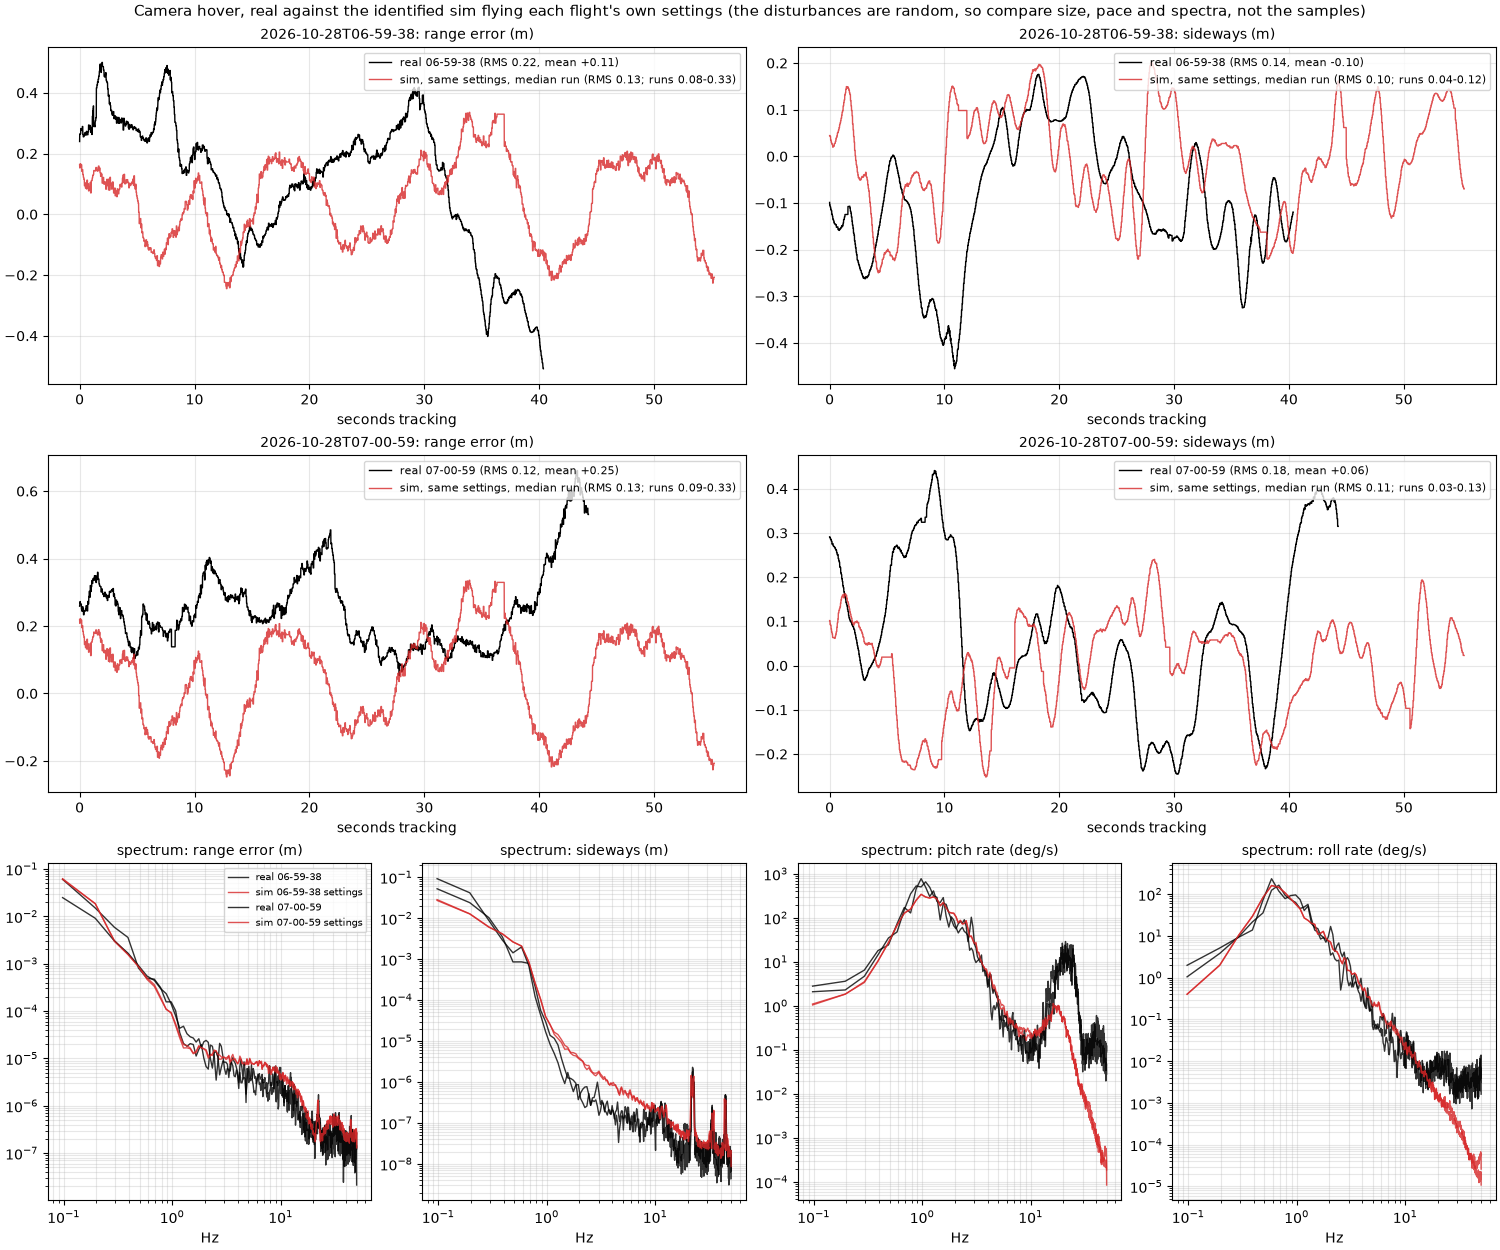
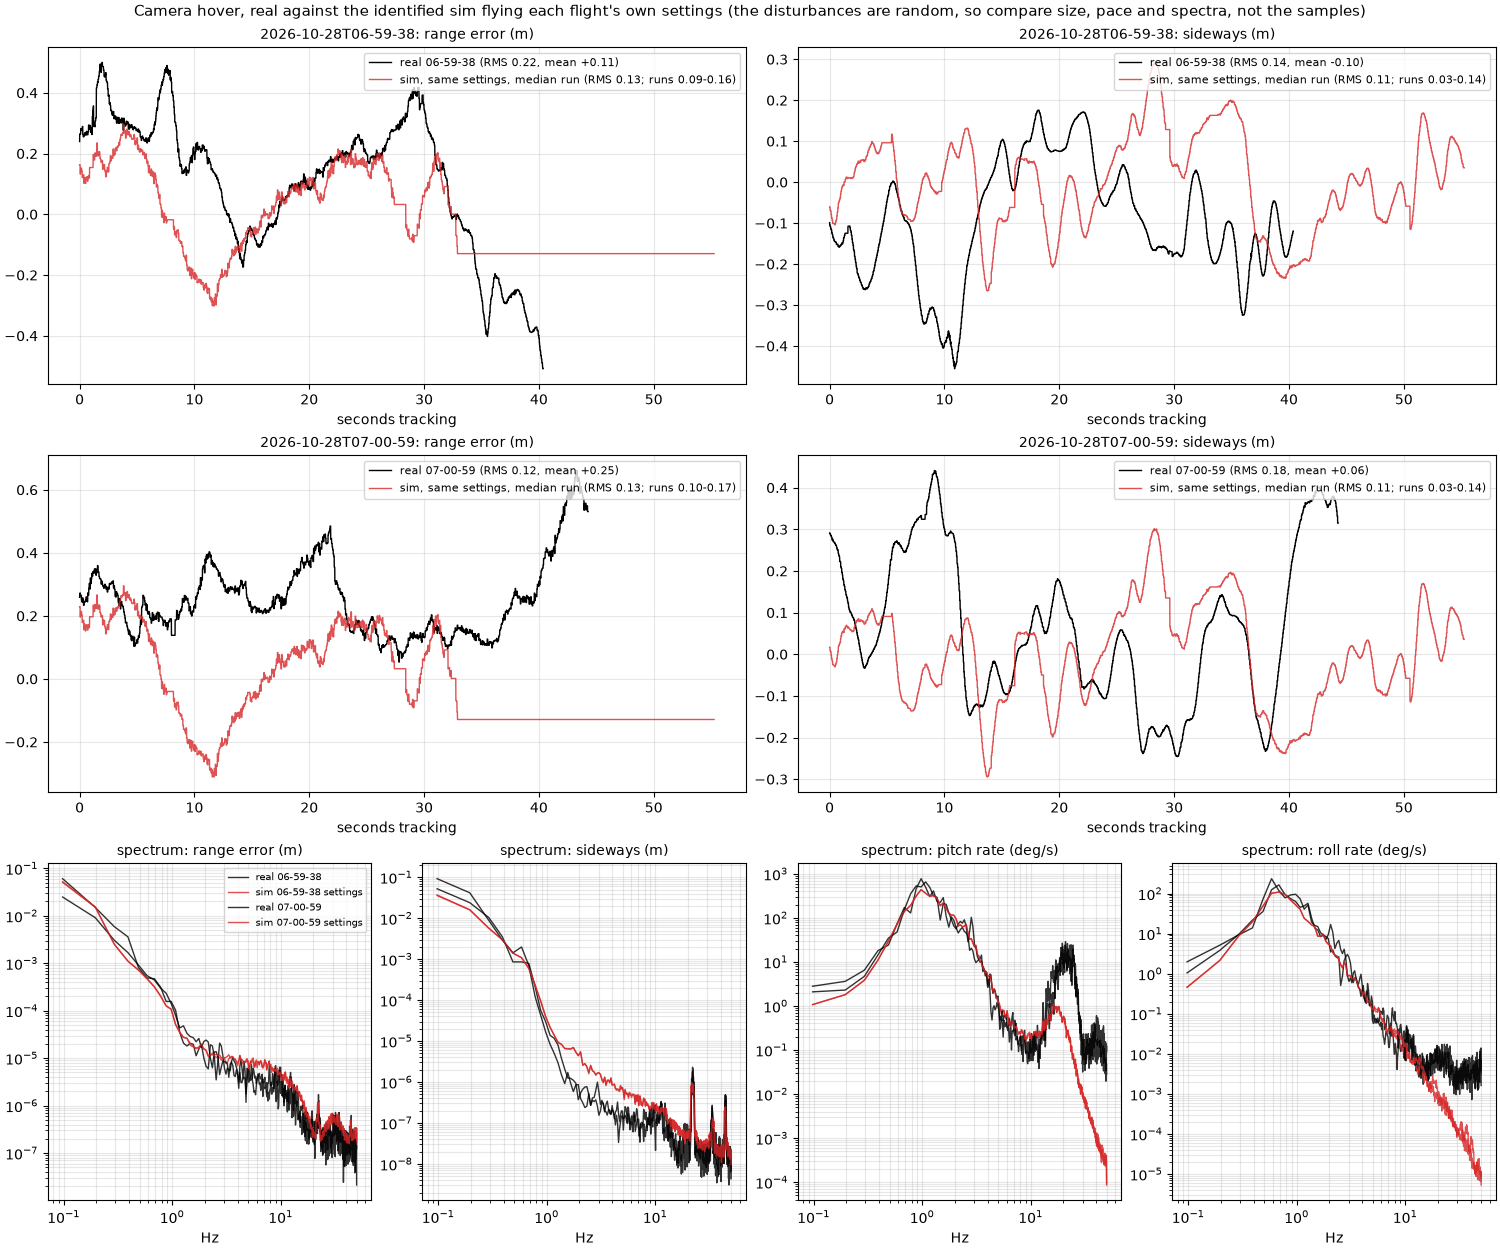
Fourth sim calibration, adding the sideways force drift (x1.48, 1.42 s): sideways wander 0.14 against the real 0.16 m with the real fade time; attitude spectra within 10% in every band but pitch 1.5-3 Hz; prediction unchanged; recovery, flip and the hover stages still hold on it

diff --git a/src/sw/sim/calibrate_sim.py b/src/sw/sim/calibrate_sim.py
@@ -1,7 +1,7 @@
 """
 Calibrate the hover sim to the real camera hovers' closed-loop behaviour: uv run --with scipy --with cma -m sw.sim.calibrate_sim [--generations 30] [--workers 90]
 
-identify_airframe fits the airframe to short-horizon prediction, which the attitude controller's feedback dominates: it pins the plant above about 2 Hz but barely constrains its low-frequency gain, while fit_disturbances only sizes the torque residual's drift. Flown in closed loop, the sim then wobbles at the wrong frequency (0.7 Hz in pitch against the real 0.9-1 Hz). This CMA-ES search sets what both leave loose so that the sim flying each camera hover's settings (sweep.run with hover=True) matches the hover's statistics: the pitch and roll attitude spectra in three bands (0.3-0.8, 0.8-1.5, 1.5-3 Hz), the range error and sideways RMS and how fast they fade. Searched: scales on the tilt's pitch torque (through wash_z, so its lagged share pitch_wake scales with it), on the lagged share and its lag, on the roll authority (differential_slope), on the attitude terms (roll_pendulum, pitch_pendulum), and on the calibrated disturbances (roll and pitch torque drift size and correlation time, force drift size). The prediction error on the logs (identify_airframe's closed-loop free runs at 250 ms, 500 ms and 1 s, all flights) is kept within reach by a penalty on its growth. Writes the scaled airframe and disturbances next to the sources (--out-airframe, --out-disturbances).
+identify_airframe fits the airframe to short-horizon prediction, which the attitude controller's feedback dominates: it pins the plant above about 2 Hz but barely constrains its low-frequency gain, while fit_disturbances only sizes the torque residual's drift. Flown in closed loop, the sim then wobbles at the wrong frequency (0.7 Hz in pitch against the real 0.9-1 Hz). This CMA-ES search sets what both leave loose so that the sim flying each camera hover's settings (sweep.run with hover=True) matches the hover's statistics: the pitch and roll attitude spectra in three bands (0.3-0.8, 0.8-1.5, 1.5-3 Hz), the range error and sideways RMS and how fast they fade. Searched: scales on the tilt's pitch torque (through wash_z, so its lagged share pitch_wake scales with it), on the lagged share and its lag, on the roll authority (differential_slope), on the attitude terms (roll_pendulum, pitch_pendulum), and on the calibrated disturbances (roll and pitch torque drift size and correlation time, forward force drift size, sideways force drift size and correlation time). The prediction error on the logs (identify_airframe's closed-loop free runs at 250 ms, 500 ms and 1 s, all flights) is kept within reach by a penalty on its growth. Writes the scaled airframe and disturbances next to the sources (--out-airframe, --out-disturbances).
 """
 
 import argparse
@@ -32,7 +32,7 @@ BANDS = ((0.3, 0.8), (0.8, 1.5), (1.5, 3.0))
 SEEDS = 4
 # Searched: name, low, high, start (log-scaled; the lag and correlation times start at the current plant's, see starting).
 SPACE = (("pitch_gain", 0.6, 1.8, 1.0), ("wake_gain", 0.3, 3.0, 1.0), ("wake_tau", 0.2, 2.0, 1.0), ("roll_gain", 0.6, 2.5, 1.0), ("roll_pendulum_gain", 0.2, 3.0, 1.0), ("pitch_pendulum_gain", 0.2, 3.0, 1.0),
-         ("pitch_drift", 0.3, 3.0, 1.0), ("roll_drift", 0.3, 3.0, 1.0), ("pitch_tau", 0.05, 1.5, 0.1), ("roll_tau", 0.05, 1.5, 0.1), ("force_drift", 0.3, 3.0, 1.0))
+         ("pitch_drift", 0.3, 3.0, 1.0), ("roll_drift", 0.3, 3.0, 1.0), ("pitch_tau", 0.05, 1.5, 0.1), ("roll_tau", 0.05, 1.5, 0.1), ("force_drift", 0.3, 3.0, 1.0), ("side_drift", 0.3, 5.0, 1.0), ("side_tau", 0.2, 10.0, 0.47))
 HORIZONS = (25, 50, 100)
 PENALTY = 4.0
 
@@ -95,8 +95,11 @@ def plant(x):
             if t["channel"] in ("pitch", "roll"):
                 t["sd"] *= v[f"{t['channel']}_drift"]
                 t["tau"] = v[f"{t['channel']}_tau"]
-            elif t["channel"] in ("forward", "left"):
+            elif t["channel"] == "forward":
                 t["sd"] *= v["force_drift"]
+            elif t["channel"] == "left":
+                t["sd"] *= v["side_drift"]
+                t["tau"] = v["side_tau"]
         terms.append(t)
     return IDENTIFIED_ESC | {"airframe": airframe, "disturbances": terms}
 

diff --git a/src/sw/sim/models/NOTES.md b/src/sw/sim/models/NOTES.md
@@ -163,7 +163,7 @@ Roll authority is still not pinned: differential_slope came out 0.32 identified,
 
 **Third calibration pass and the parked controllers retuned (2026-10-28 afternoon).** calibrate_sim from the geometry plant's own values: mismatch 0.241 → 0.194; pitch bands 1.45/1.89/1.00° and roll 2.06/0.91/0.27° against real 1.65/2.51/0.91 and 1.75/0.90/0.25; range/sideways RMS 0.14/0.13 m against 0.16/0.16; prediction unchanged or better (roll/pitch 0.96/2.98° at 250 ms, 1.46/3.10° at 500 ms, 1.56/2.94° at 1 s). Left: pitch rate 20 against 24 deg/s (the angle bands are matched, the rate is not in the cost), and differential_slope 0.22, which is a small-signal fit. Recovery and flip retuned on this plant with roll authority randomized ×0.8–5 around the fitted slope (0.18–1.1 of the thrust table, covering the 2026-10-27 fit's 1.33 times the old table's scale): recovery map 91% safe overall (84% over the tuning drops randomized, 77% at the nominal, weakest-roll plant); flip 91% clean randomized, 99.4% nominal. Videos: sw/sim/videos/falls_geometry.mp4 (six drops, all safe), flips_geometry.mp4.
 
-**Sensors in the hover sim (2026-10-28 afternoon).** The pitch gyro carries the rotors' 21 Hz vibration (gyro_vibration, 10 deg/s RMS, 17–25 Hz): the sim's pitch rate below 5 Hz is now 20.5–22 deg/s against the real 21–22 (was 19.5). The camera's noise is split: 0.5% of the distance along the line of sight (range) and 0.05% across the image (lateral_noise), from the camera hovers' sideways spectrum above 2 Hz. plot_hover compares the hover's own camera-based position estimate on both sides, and its range and sideways spectra now match the real ones across the whole band (noise floors and the camera's frame-rate lines included). Left: the real drone wanders sideways more slowly and further (RMS 0.14–0.18 m against 0.10–0.11, below 0.3 Hz).
+**Sensors in the hover sim (2026-10-28 afternoon).** The pitch gyro carries the rotors' 21 Hz vibration (gyro_vibration, 10 deg/s RMS, 17–25 Hz): the sim's pitch rate below 5 Hz is now 20.5–22 deg/s against the real 21–22 (was 19.5). The camera's noise is split: 0.5% of the distance along the line of sight (range) and 0.05% across the image (lateral_noise), from the camera hovers' sideways spectrum above 2 Hz. plot_hover compares the hover's own camera-based position estimate on both sides, and its range and sideways spectra now match the real ones across the whole band (noise floors and the camera's frame-rate lines included). A fourth calibration pass also fits the sideways force drift (×1.48, correlation 1.42 s instead of 0.47): sideways RMS 0.14 against 0.16 m fading in 2.0 against 2.0 s, pitch bands 1.56/2.30/1.03° and roll 1.67/0.86/0.23° against 1.65/2.51/0.91 and 1.75/0.90/0.25, prediction unchanged (0.96/2.95° at 250 ms, 1.43/3.11° at 500 ms). On it: recovery 81.5% safe over the tuning drops, flip 88% clean randomized and 96% nominal, hover stage_1 holds 9/11 cm with the extra 1 m/s² of wash (flown 139/15).
 
 **Full-attitude sim in the air (validate_rigid.py).** rigid.py flown in closed loop from the same starts, with no random disturbances or sensor noise, matches the airframe model to within 0.1° up to 500 ms. At 1 s its pitch error is 3.7° against the model's 3.1°, and yaw R² 0.28 against 0.34. About a third of that gap is the horizontal drag: rigid.py uses the drag calibrated from the camera's position statistics (0.58, 0.34 per s), the airframe model its own velocity fit (1.17, 0.68). Battery sag and the thrust-scaled flying terms change nothing. Limits: hover-like flight only (attitudes within about 20°, the range the flights covered); the aggressive states of recovery and flips are extrapolation. Beyond that range rigid.py keeps the airframe model's attitude and speed terms at what hover measured: tilt clipped to 0.6 rad and faded out by 90°, body-plane speed clipped to 1.5 m/s with the same fade. Before this, those terms (roll stiffness −13 rad/s² per rad, speed moments up to 6 rad/s² per m/s, fed a fall's speed) righted an uncontrolled inverted drone by themselves; now it tumbles. The hover-range validation above is unchanged by it.
 
